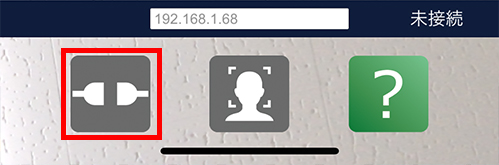
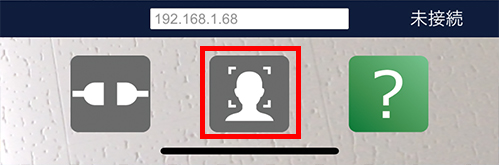
iPhone フェイストラッキングの説明を修正。

Changed region(s): [[0.3908, 0.2727, 0.6012, 0.8485], [0.1202, 0.2727, 0.3307, 0.8485]]

diff --git a/ft_iphone.md b/ft_iphone.md
@@ -1,7 +1,7 @@
 ## iPhoneX フェイストラッキングについて
 
 >iPhoneX 以降にフェイストラッキング アプリ 3teneFT をインストールする事で
->高精度のフェイストラッキング、アイトラッキングが 3tenePro で利用できます。
+>高精度のフェイストラッキング、アイトラッキングが 3tenePRO で利用できます。
 
 >また、iPhoneX の高精度のフェイストラッキングを利用することにより、
 >左右別々でのまばたきも可能になっています。
@@ -13,9 +13,9 @@
 
 >上記リンクまたは App Store で 3teneFT を検索してインストールをしてください。
 
-### 3tenePro と 3teneFT のネットワークについて
+### 3tenePRO と 3teneFT の接続について
 
->3tenePro と 3teneFT を接続するには iPhone を WiFi に切り替える必要があります。
+>3tenePRO と 3teneFT を接続するには iPhone の通信方法を WiFi に切り替える必要があります。
 >キャリア通信(docomo、au、SoftBank)のインターネット経由では接続ができません。
 
 ><font color="Blue">PC とルーターを接続し、そのルーターの WiFi に iPhone を接続してください。</font>
@@ -24,20 +24,20 @@
 ![画像](image/iphonex_ft_howto_0.jpg "")
 
 >また、 PC のセキュリティソフトのファイアーウォールが有効の場合に
-><font color="Blue">3tenePro と 3teneFT の接続がブロックされる事があります。</font>
+><font color="Blue">3tenePRO と 3teneFT の接続がブロックされる事があります。</font>
 >使用しているセキュリティソフトのファイアウォール設定を変更し、
->3tenePro または 3tenePro+Live2D の通信の許可や、ブロック解除を行ってください。
+>3tenePRO または 3tenePRO+Live2D の通信の許可や、ブロック解除を行ってください。
 
 >Windows Defender ファイアウォール の設定は<a href="https://support.microsoft.com/ja-jp/help/4028544/windows-10-turn-windows-defender-firewall-on-or-off" target="_blank">こちら</a>
 
 
 ### 3teneFT側でIPアドレスの設定
 
->3tenePro で PC に割り当てられている IPアドレスの確認します
->設定 → 「システム」タブに表示されているIPアドレスを確認します。
+>まずは 3teneFT に入力するIPアドレスを 3tenePRO から確認します。
+>設定 → 「システム」タブを選択してIPアドレスを表示します。
 
 
-![画像](image/iphonex_ft_howto_1.jpg "")
+![画像](image/iphonex_ft_howto_1.png "")
 
 >アダプタが複数ある場合は１つづつ試してみてください。
 
@@ -48,23 +48,26 @@
 
 ![画像](image/iphonex_ft_howto_2.jpg "")
 
-### 3teneProと3teneFTの接続方法
+### 3tenePROと3teneFTの接続方法
 
->3tenePro側
+>3tenePRO側
 >・アバターの調整 → 「設定」タブ → フェイストラッキングの種類 を iPhoneX に変更します。
-><font color="Blue">・右側メニュー1番上の「顔認証の実行・停止」をクリックします。（アイコンが緑に変化）</font>
 
+![画像](image/iphonex_ft_howto_3.png "")
+
+
+>さらに<font color="Blue">右側メニュー1番上の「顔認証の実行・停止」をクリックします。（アイコンが緑に変化）</font>
 >フェイストラッキングが開始されると iPhone からの接続待ち状態になります。
 
 
-![画像](image/iphonex_ft_howto_3.jpg "")
+![画像](image/iphonex_ft_howto_4.png "")
 
 >3teneFT側
 >・画面下部の確認ボタン（右側）をタップしマスクが顔を追跡することを確認します。
 >　※認識しない場合は顔の認識を妨げるものを外してください。（サングラス、マスク等）
 
 
-![画像](image/iphonex_ft_howto_4.jpg "")
+![画像](image/iphonex_ft_howto_5.jpg "")
 
 >画面下部の接続ボタン（左側）をタップすると接続を開始します。
 >状態が「未接続 → 接続要求中 → 接続中」の順に変化します。
@@ -73,12 +76,12 @@
 >接続要求中 : 入力したIPアドレスに接続を試みています。
 >接続中 : 接続が完了しています。アバターが動いているはずです。</font>
 
-![画像](image/iphonex_ft_howto_5.jpg "")
+![画像](image/iphonex_ft_howto_6.jpg "")
 
->3tenePro と 3teneFT が接続されると 3tenePro の画面右上に接続アイコンが表示されます。
+>3tenePRO と 3teneFT が接続されると 3tenePRO の画面右上に接続アイコンが表示されます。
 >3teneFT 側は「接続要求中」が「接続中」に変化します。
 
-![画像](image/iphonex_ft_howto_6.jpg "")
+![画像](image/iphonex_ft_howto_7.png "")
 
 ><font color="Red">10秒程度待って接続アイコンが表示されない場合は PC のファイアウォールの確認、
 >もしくは 3teneFT 側のIPアドレス入力を確認してください。</font>

diff --git a/menu.md b/menu.md
@@ -4,7 +4,7 @@
 - [対応機器](#equipment.md)
 - [無料版と有料版の違い](#FreeOrPro.md)
 - [Mac版の制限](#mac.md)
-- [機能の使い方](#function.md)
+- [使い方](#function.md)
 - [VRMについて](#vrm.md)
 - [関連動画](#movie.md)
 - [FAQ](#faq.md)

diff --git a/function.md b/function.md
@@ -1,4 +1,4 @@
-## 機能の使い方
+## 使い方
 
 >3tene で使える機能について説明します。
 
